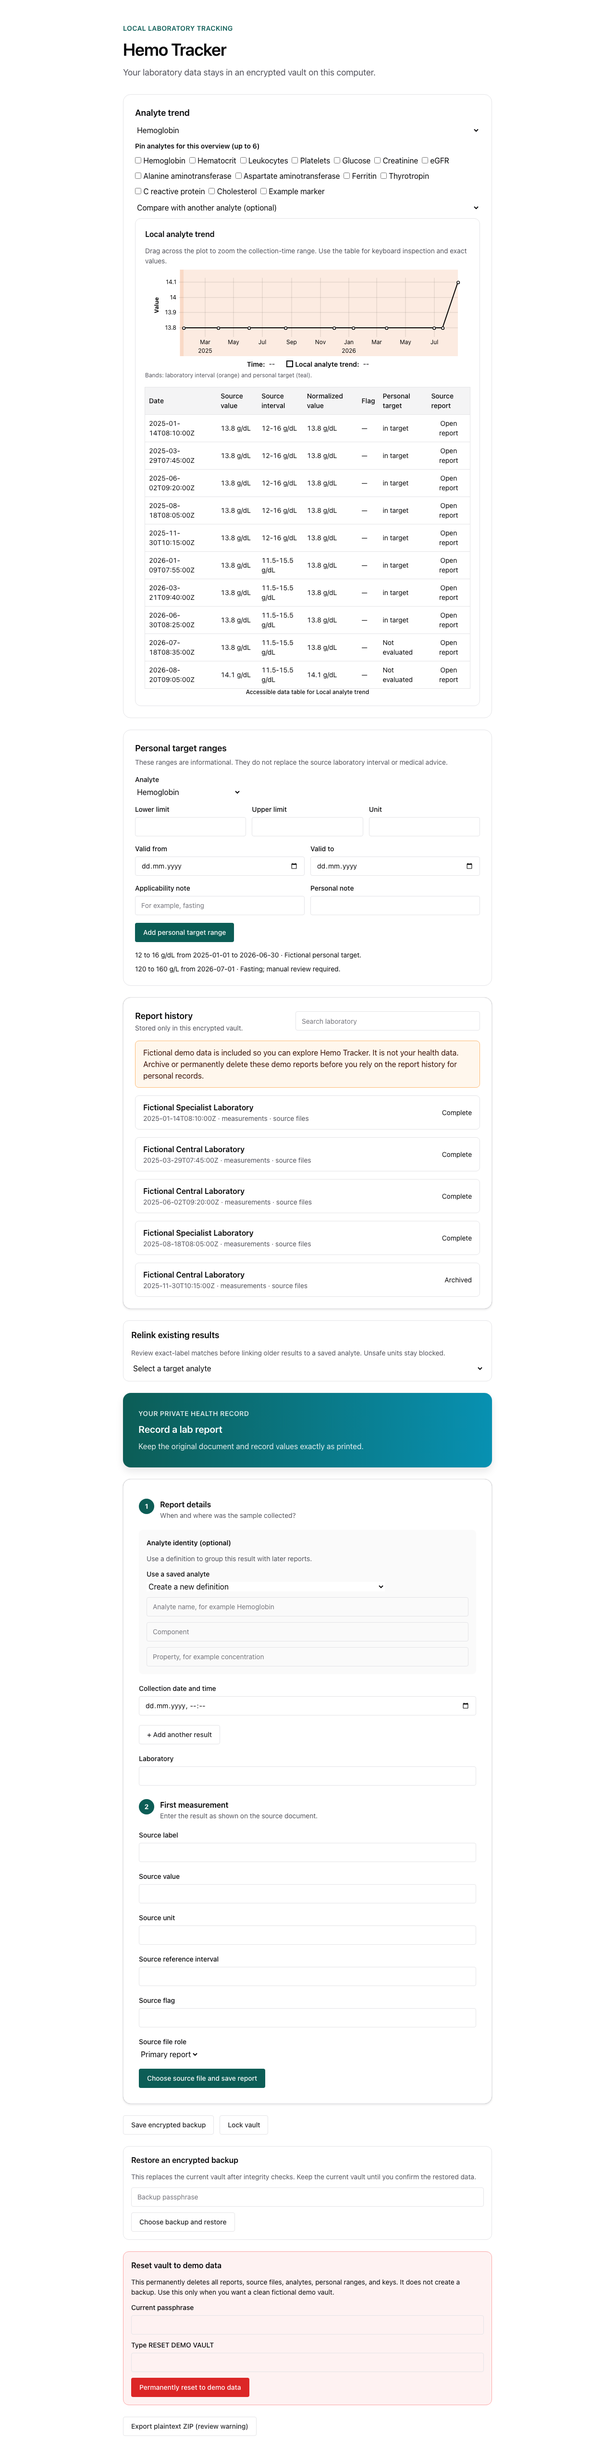
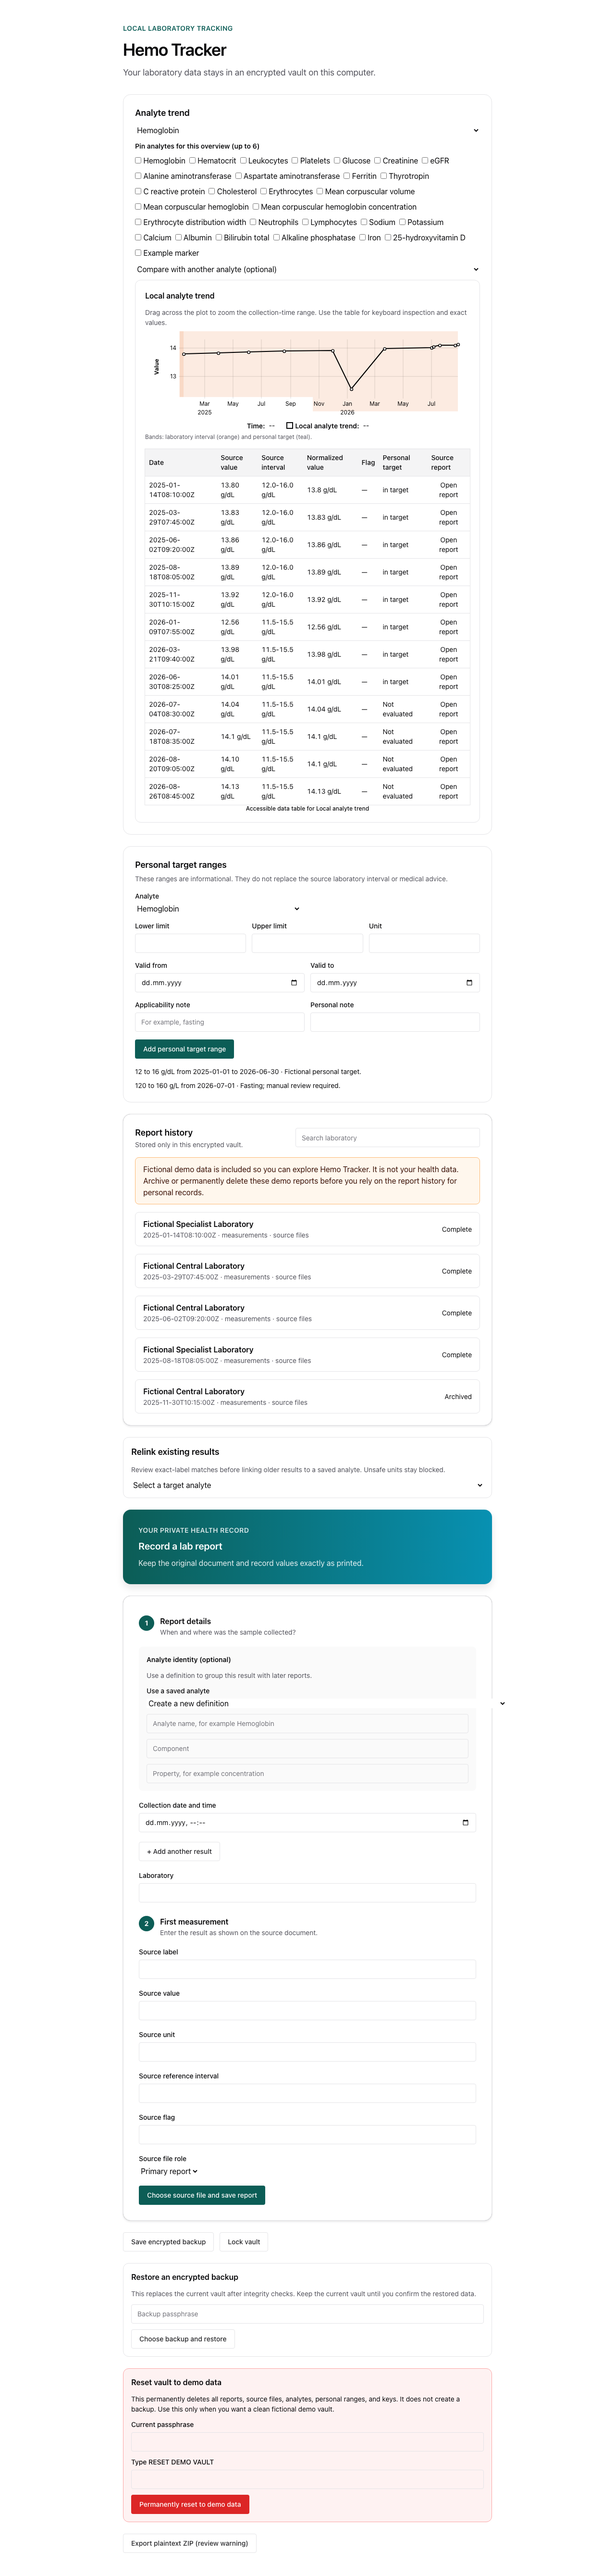
feat: expand runtime demo seed

Changed region(s): [[0.1875, 0.0, 0.8125, 0.9945]]

diff --git a/apps/desktop/src-tauri/src/account_vault.rs b/apps/desktop/src-tauri/src/account_vault.rs
@@ -434,7 +434,7 @@ impl LocalAccountVault {
 
     fn verify_seeded_demo_vault(vault: &LocalAccountVault) -> Result<(), LocalAccountError> {
         let report_ids = vault.list_lab_report_ids()?;
-        if report_ids.len() != 3 {
+        if report_ids.len() != 6 {
             return Err(LocalAccountError::Operation);
         }
         for report_id in report_ids {
@@ -442,7 +442,7 @@ impl LocalAccountVault {
             if report.status != ReportStatus::Complete
                 || report.tags != vec!["demo".to_owned()]
                 || report.source_files.len() != 1
-                || report.measurements.len() != 3
+                || report.measurements.len() != 8
             {
                 return Err(LocalAccountError::Operation);
             }
@@ -958,6 +958,38 @@ impl LocalAccountVault {
                 Some("777-3"),
                 "10*3/uL",
             ),
+            (
+                "Hematocrit",
+                "Hematocrit",
+                "VFr",
+                "Blood",
+                Some("4544-3"),
+                "%",
+            ),
+            (
+                "Leukocytes",
+                "Leukocytes",
+                "NCnc",
+                "Blood",
+                Some("6690-2"),
+                "10*3/uL",
+            ),
+            (
+                "C reactive protein",
+                "C reactive protein",
+                "MCnc",
+                "Serum or plasma",
+                Some("1988-5"),
+                "mg/L",
+            ),
+            (
+                "Ferritin",
+                "Ferritin",
+                "MCnc",
+                "Serum or plasma",
+                Some("2276-4"),
+                "ug/L",
+            ),
         ] {
             self.add_analyte(NewAnalyte {
                 name: name.to_owned(),
@@ -987,13 +1019,77 @@ impl LocalAccountVault {
         let hemoglobin_id = analyte_id("Hemoglobin")?;
         let glucose_id = analyte_id("Glucose")?;
         let creatinine_id = analyte_id("Creatinine")?;
+        let platelet_id = analyte_id("Platelet count")?;
+        let hematocrit_id = analyte_id("Hematocrit")?;
+        let wbc_id = analyte_id("Leukocytes")?;
+        let crp_id = analyte_id("C reactive protein")?;
+        let ferritin_id = analyte_id("Ferritin")?;
         let samples = [
-            ("2026-01-15T08:00:00Z", "13.4", "90", "1.02"),
-            ("2026-04-22T08:30:00Z", "13.8", "4.99567", "90.3"),
-            ("2026-07-18T07:45:00Z", "14.1", "96", "1.08"),
+            (
+                "2025-08-12T08:00:00Z",
+                "13.4",
+                "90",
+                "1.02",
+                "42",
+                "6.2",
+                "1.8",
+                "82",
+            ),
+            (
+                "2025-11-28T08:30:00Z",
+                "13.6",
+                "4.99567",
+                "90.3",
+                "42.5",
+                "6.4",
+                "2.1",
+                "86",
+            ),
+            (
+                "2026-02-19T07:45:00Z",
+                "13.8",
+                "96",
+                "1.08",
+                "43",
+                "6.6",
+                "2.4",
+                "91",
+            ),
+            (
+                "2026-04-22T08:15:00Z",
+                "13.2",
+                "5.162",
+                "1.00",
+                "41",
+                "7.8",
+                "8.7",
+                "74",
+            ),
+            (
+                "2026-06-30T09:10:00Z",
+                "13.7",
+                "101",
+                "1.04",
+                "42",
+                "6.9",
+                "3.1",
+                "80",
+            ),
+            (
+                "2026-08-20T07:55:00Z",
+                "14.1",
+                "4.99567",
+                "92.0",
+                "43",
+                "6.5",
+                "1.9",
+                "88",
+            ),
         ];
-        for (index, (collection_time, hemoglobin, glucose, creatinine)) in
-            samples.into_iter().enumerate()
+        for (
+            index,
+            (collection_time, hemoglobin, glucose, creatinine, hematocrit, wbc, crp, ferritin),
+        ) in samples.into_iter().enumerate()
         {
             let report_id = self.create_lab_report_draft(CreateLabReportDraft {
                 collection_time: collection_time.to_owned(),
@@ -1045,6 +1141,41 @@ impl LocalAccountVault {
                     "0.6-1.2 mg/dL",
                     creatinine_id.as_str(),
                 ),
+                (
+                    "Platelet count",
+                    if index == 3 { "258" } else { "245" },
+                    "10*3/uL",
+                    "150-400 10*3/uL",
+                    platelet_id.as_str(),
+                ),
+                (
+                    "Hematocrit",
+                    hematocrit,
+                    "%",
+                    if index >= 4 { "36-46 %" } else { "37-47 %" },
+                    hematocrit_id.as_str(),
+                ),
+                (
+                    "Leukocytes",
+                    wbc,
+                    "10*3/uL",
+                    "4.0-10.0 10*3/uL",
+                    wbc_id.as_str(),
+                ),
+                (
+                    "C reactive protein",
+                    crp,
+                    "mg/L",
+                    "0-5 mg/L",
+                    crp_id.as_str(),
+                ),
+                (
+                    "Ferritin",
+                    ferritin,
+                    "ug/L",
+                    "20-250 ug/L",
+                    ferritin_id.as_str(),
+                ),
             ] {
                 self.add_measurement(
                     &report_id,
@@ -1053,7 +1184,11 @@ impl LocalAccountVault {
                         source_value: value.to_owned(),
                         source_unit: unit.to_owned(),
                         source_reference_interval: interval.to_owned(),
-                        source_flag: String::new(),
+                        source_flag: if label == "C reactive protein" && index == 3 {
+                            "high".to_owned()
+                        } else {
+                            String::new()
+                        },
                         parsed_numeric_value: Some(value.to_owned()),
                         analyte_id: Some(analyte.to_owned()),
                     },

diff --git a/apps/desktop/src-tauri/tests/local_account_vault.rs b/apps/desktop/src-tauri/tests/local_account_vault.rs
@@ -22,12 +22,12 @@ fn user_can_create_lock_and_reopen_a_local_account_vault() {
 
     assert_eq!(vault.status(), VaultStatus::Unlocked);
     let demo_report_ids = vault.list_lab_report_ids().unwrap();
-    assert_eq!(demo_report_ids.len(), 3);
+    assert_eq!(demo_report_ids.len(), 6);
     let demo_report = vault.get_lab_report(&demo_report_ids[0]).unwrap();
     assert_eq!(demo_report.status, ReportStatus::Complete);
     assert_eq!(demo_report.tags, vec!["demo"]);
     assert_eq!(demo_report.source_files.len(), 1);
-    assert_eq!(demo_report.measurements.len(), 3);
+    assert_eq!(demo_report.measurements.len(), 8);
     assert!(
         demo_report
             .notes
@@ -50,7 +50,7 @@ fn user_can_create_lock_and_reopen_a_local_account_vault() {
         .unlock_with_passphrase("correct horse battery staple".to_owned())
         .unwrap();
     assert_eq!(reopened.status(), VaultStatus::Unlocked);
-    assert_eq!(reopened.list_lab_report_ids().unwrap().len(), 3);
+    assert_eq!(reopened.list_lab_report_ids().unwrap().len(), 6);
     assert!(reopened.backup_to(account.join("nested-backup")).is_err());
     let backup = directory.path().join("backup");
     reopened.backup_to(&backup).unwrap();
@@ -84,20 +84,20 @@ fn user_can_reset_an_unlocked_vault_to_a_fresh_demo_set() {
             tags: Vec::new(),
         })
         .unwrap();
-    assert_eq!(vault.list_lab_report_ids().unwrap().len(), 4);
+    assert_eq!(vault.list_lab_report_ids().unwrap().len(), 7);
 
     assert!(
         vault
             .reset_to_demo("wrong passphrase".to_owned(), "RESET DEMO VAULT")
             .is_err()
     );
-    assert_eq!(vault.list_lab_report_ids().unwrap().len(), 4);
+    assert_eq!(vault.list_lab_report_ids().unwrap().len(), 7);
     assert!(
         vault
             .reset_to_demo("correct horse battery staple".to_owned(), "RESET")
             .is_err()
     );
-    assert_eq!(vault.list_lab_report_ids().unwrap().len(), 4);
+    assert_eq!(vault.list_lab_report_ids().unwrap().len(), 7);
 
     let new_recovery_code = vault
         .reset_to_demo(
@@ -114,9 +114,9 @@ fn user_can_reset_an_unlocked_vault_to_a_fresh_demo_set() {
         .into_iter()
         .map(|id| vault.get_lab_report(&id).unwrap())
         .collect::<Vec<_>>();
-    assert_eq!(reports.len(), 3);
+    assert_eq!(reports.len(), 6);
     assert!(reports.iter().all(|report| report.tags == vec!["demo"]));
-    assert!(reports.iter().all(|report| report.measurements.len() == 3));
+    assert!(reports.iter().all(|report| report.measurements.len() == 8));
     assert!(reports.iter().all(|report| {
         report
             .notes
@@ -273,7 +273,7 @@ fn encrypted_backup_restores_and_plaintext_export_is_a_zip() {
         .restore_from_backup(&backup, "valid passphrase".to_owned())
         .unwrap();
     assert_eq!(clean_vault.status(), VaultStatus::Unlocked);
-    assert_eq!(clean_vault.list_lab_report_ids().unwrap().len(), 4);
+    assert_eq!(clean_vault.list_lab_report_ids().unwrap().len(), 7);
 }
 
 #[test]

diff --git a/docs/adr/0009-seed-fictional-demo-reports.md b/docs/adr/0009-seed-fictional-demo-reports.md
@@ -13,11 +13,11 @@ fixture must not be copied into a user account automatically.
 
 ## Decision
 
-Create three complete reports when a new local vault is created. Each report
-uses the `demo` tag, fictional notes, one encrypted text source file, and
-hemoglobin, glucose, and creatinine measurements across three collection dates.
-Use representative source units and reference intervals so the trend view can
-show normalization and changing dates immediately.
+Create six complete reports when a new local vault is created. Each report
+uses the `demo` tag, fictional notes, one encrypted text source file, and eight
+representative measurements across irregular collection dates. Use alternate
+glucose units, changing intervals, and one temporary flagged deviation so the
+trend view can show normalization and interpretation boundaries immediately.
 
 Do not seed demo reports when an existing vault is unlocked. Store the demo
 reports through the same encrypted report and source-file paths as user data.

diff --git a/docs/development/mock-data.md b/docs/development/mock-data.md
@@ -17,7 +17,9 @@ Use only fictional names and values. Never add real laboratory reports, identifi
 
 The small fixture is suitable for routine checks. Large plot benchmarks are separate work and must not slow routine CI.
 
-New local vaults use a smaller runtime demo set. The application creates three
-complete fictional reports with encrypted text source files. The runtime set
-uses the same representative analytes and unit rules, but it is not a copy of
-the ten-report repository fixture.
+New local vaults use a focused runtime demo set. The application creates six
+complete fictional reports with encrypted text source files and eight
+representative analytes. The runtime set demonstrates irregular dates, a
+temporary flagged deviation, alternate glucose units, changed intervals, and
+source-linked trends. It is smaller than the comprehensive repository fixture
+so first-run startup stays quick.

diff --git a/docs/user/README.md b/docs/user/README.md
@@ -28,7 +28,7 @@ Hemo Tracker stores laboratory reports in an encrypted local vault. It does not 
 
 Result: The report is stored in the encrypted local vault. The original source file is not changed.
 
-Each new vault also contains three clearly marked fictional demo reports. Use
+Each new vault also contains six clearly marked fictional demo reports. Use
 these reports to inspect the trend and report controls before you record real
 data. Archive or permanently delete the demo reports when you no longer need
 them.
@@ -84,7 +84,7 @@ return to the fictional first-run data.
 
 Reset does not create a backup. It permanently removes reports, source files,
 analytes, personal ranges, and the old recovery key. It keeps non-vault app
-preferences. The replacement contains three fictional demo reports.
+preferences. The replacement contains six fictional demo reports.
 
 ## Read a trend
 

diff --git a/docs/research/v1-visualization-ux-review.md b/docs/research/v1-visualization-ux-review.md
@@ -20,8 +20,8 @@ intervals, corrections, personal target ranges, compatible unit variants, and
 blocked normalization cases. This gives the interface enough variation to show
 normal data, incomplete data, and data that must not be compared.
 
-The runtime seed is intentionally smaller. A new vault contains three complete
-fictional reports with encrypted source text and three representative
+The runtime seed is intentionally smaller. A new vault contains six complete
+fictional reports with encrypted source text and eight representative
 measurements per report. The runtime seed is a quickstart sample, not the full
 benchmark fixture. The UI marks the records as demo data.
 

diff --git a/docs/product-plan.md b/docs/product-plan.md
@@ -84,7 +84,7 @@ The application has five main views.
 
 Each overview card shows the latest source value, source unit, collection date, source flag, and a small trend. The user selects the pinned analytes.
 
-Each new local vault contains three clearly marked fictional demo reports. The
+Each new local vault contains six clearly marked fictional demo reports. The
 demo reports make the overview and trend views inspectable before the user
 records personal data. The user can archive or permanently delete them.
 

diff --git a/docs/user/install-macos.md b/docs/user/install-macos.md
@@ -9,6 +9,6 @@
 
 Do not disable global macOS security protections. If the application is not from a trusted release source, cancel the installation.
 
-The first start creates a local encrypted vault with three fictional demo
+The first start creates a local encrypted vault with six fictional demo
 reports. Keep the passphrase and recovery key separate. Archive or delete the
 demo reports before you record personal data.

diff --git a/docs/user/install-windows.md b/docs/user/install-windows.md
@@ -8,6 +8,6 @@
 
 Do not disable global Windows security protections. If the installer is not from a trusted release source, cancel the installation.
 
-The first start creates a local encrypted vault with three fictional demo
+The first start creates a local encrypted vault with six fictional demo
 reports. Keep the passphrase and recovery key separate. Archive or delete the
 demo reports before you record personal data.
